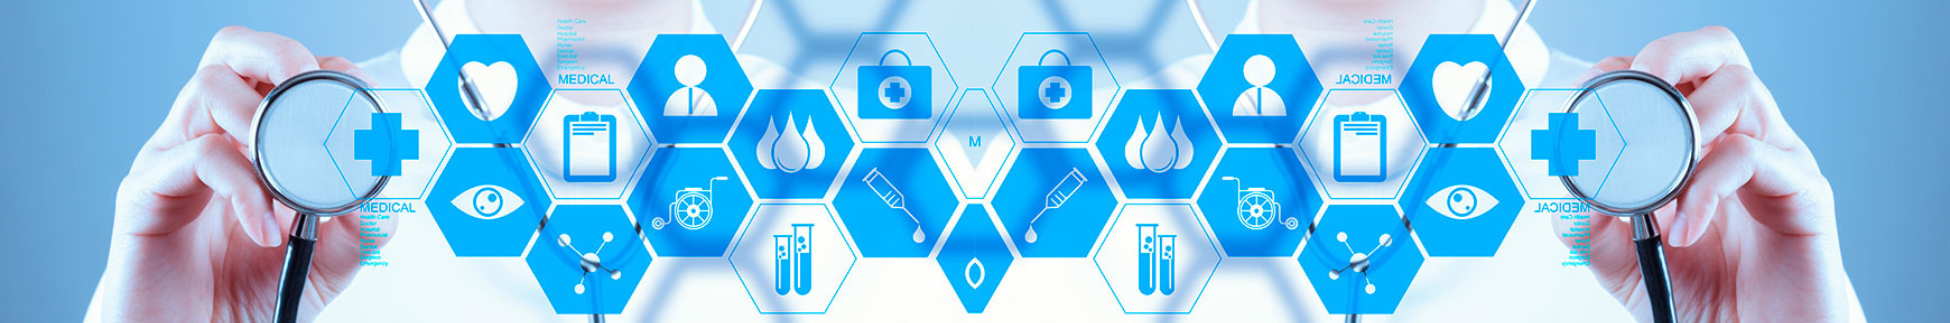
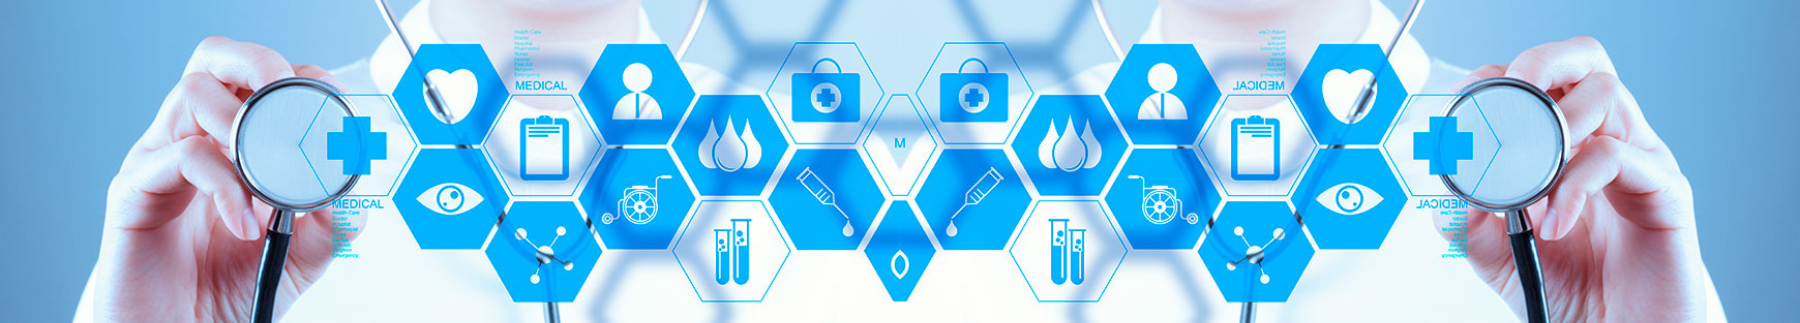
alterações no CSS

diff --git a/HTML/index.html b/HTML/index.html
@@ -21,7 +21,7 @@
                 </div>
             </div>
             <ul class="nav-links">
-                <li><a href="">Inicio</a></li>
+                <li><a href="HTML/index.html">Inicio</a></li>
                 <li><a href="">Benefícios</a></li>
                 <li><a href="">Especialidade</a></li>
                 <li><a href="">Localizações</a></li>
@@ -41,37 +41,38 @@
         <div id="conteiner">
             <div id="container-text">
                 <h3>Saúde pública no Brasil</h3>
-                <p>Lorem ipsum dolor sit amet consectetur, adipisicing elit. Id, necessitatibus ipsa? Error laborum sed dolorum! Numquam, provident quisquam iure esse, itaque quas, explicabo et voluptate autem possimus voluptatem a nemo. Lorem ipsum dolor sit amet, consectetur adipisicing elit. Cum modi adipisci a enim velit, consequatur harum quia magni, quas officiis nihil sunt at eligendi accusantium voluptatem officia, obcaecati voluptas dolorem? Lorem ipsum, dolor sit amet consectetur adipisicing elit. Est, non ipsa. Illum dicta optio quibusdam earum aliquid. Nemo atque iure numquam. Eius adipisci ex ullam blanditiis recusandae et, odio accusantium!
-                Enim delectus, eveniet eos natus nam quidem porro. Eligendi ratione atque ipsa, saepe voluptas laboriosam accusantium minima. Itaque molestias, facere accusantium ad accusamus quae, sint atque perspiciatis illo corporis et?
-                Animi iure alias vero necessitatibus, explicabo, reprehenderit voluptates accusamus ad veniam quos tempora. Hic sapiente voluptatem repudiandae reiciendis quae veniam possimus molestias veritatis perferendis! Iure quia id illum vitae dignissimos.</p>
+                <p>A saúde pública no Brasil, materializada pelo Sistema Único de Saúde (SUS), é uma conquista histórica e um dos maiores sistemas de saúde pública do mundo. O SUS garante o acesso universal e igualitário a ações e serviços de promoção, proteção e recuperação da saúde, sendo um marco na garantia de direitos sociais. No entanto, a subfinanciamento crônico, a desigualdade na distribuição de recursos e a carência de profissionais de saúde em determinadas regiões são desafios que comprometem a qualidade e a equidade do atendimento. Além disso, a pandemia de COVID-19 expôs fragilidades no sistema, como a falta de insumos e a sobrecarga dos profissionais de saúde.</p>
             </div>
             <div id="container-img">
                 <img src="../img/brasil.png" alt="">
             </div>
         </div>
         <div id="conteiner">
-            <div id="container-img">
+            <div id="container-img2">
                 <img src="../img/gdf.png" alt="">
             </div>
             <div id="container-texte">
-                <h3>Saúde pública no Brasil</h3>
-                <p>Lorem ipsum dolor sit amet consectetur, adipisicing elit. Id, necessitatibus ipsa? Error laborum sed dolorum! Numquam, provident quisquam iure esse, itaque quas, explicabo et voluptate autem possimus voluptatem a nemo. Lorem ipsum dolor sit amet, consectetur adipisicing elit. Cum modi adipisci a enim velit, consequatur harum quia magni, quas officiis nihil sunt at eligendi accusantium voluptatem officia, obcaecati voluptas dolorem? Lorem ipsum, dolor sit amet consectetur adipisicing elit. Est, non ipsa. Illum dicta optio quibusdam earum aliquid. Nemo atque iure numquam. Eius adipisci ex ullam blanditiis recusandae et, odio accusantium!
-                Enim delectus, eveniet eos natus nam quidem porro. Eligendi ratione atque ipsa, saepe voluptas laboriosam accusantium minima. Itaque molestias, facere accusantium ad accusamus quae, sint atque perspiciatis illo corporis et?
-                Animi iure alias vero necessitatibus, explicabo, reprehenderit voluptates accusamus ad veniam quos tempora. Hic sapiente voluptatem repudiandae reiciendis quae veniam possimus molestias veritatis perferendis! Iure quia id illum vitae dignissimos.</p>
+                <h3>Saúde pública no DF</h3>
+                <p>A saúde pública no Distrito Federal, apesar de apresentar avanços como uma rede de atenção primária relativamente consolidada e investimentos em tecnologia, enfrenta desafios significativos. A rápida expansão urbana e o crescimento populacional têm sobrecarregado o sistema, resultando em desigualdades entre as regiões administrativas, superlotação de hospitais e unidades de saúde, e falta de profissionais qualificados. A gestão dos serviços de saúde também é um ponto crítico, com questões como falta de planejamento e burocratização impactando a eficiência. Para garantir uma saúde pública de qualidade, é necessário fortalecer a atenção primária, melhorar a gestão, valorizar os profissionais e promover a participação social.</p>
             </div>
            
         </div>
         <div id="conteiner">
             <div id="container-text">
                 <h3>Dinheiro movimento para a Saúde pública</h3>
-                <p>Lorem ipsum dolor sit amet consectetur, adipisicing elit. Id, necessitatibus ipsa? Error laborum sed dolorum! Numquam, provident quisquam iure esse, itaque quas, explicabo et voluptate autem possimus voluptatem a nemo. Lorem ipsum dolor sit amet, consectetur adipisicing elit. Cum modi adipisci a enim velit, consequatur harum quia magni, quas officiis nihil sunt at eligendi accusantium voluptatem officia, obcaecati voluptas dolorem? Lorem ipsum, dolor sit amet consectetur adipisicing elit. Est, non ipsa. Illum dicta optio quibusdam earum aliquid. Nemo atque iure numquam. Eius adipisci ex ullam blanditiis recusandae et, odio accusantium!
-                Enim delectus, eveniet eos natus nam quidem porro. Eligendi ratione atque ipsa, saepe voluptas laboriosam accusantium minima. Itaque molestias, facere accusantium ad accusamus quae, sint atque perspiciatis illo corporis et?
-                Animi iure alias vero necessitatibus, explicabo, reprehenderit voluptates accusamus ad veniam quos tempora. Hic sapiente voluptatem repudiandae reiciendis quae veniam possimus molestias veritatis perferendis! Iure quia id illum vitae dignissimos.</p>
+                <p>O financiamento da saúde pública no Distrito Federal é um tema complexo e desafiador. A principal fonte de recursos é o Sistema Único de Saúde (SUS), que repassa verbas para o governo local. Contudo, o subfinanciamento crônico, a desigualdade na distribuição dos recursos e a falta de planejamento eficaz comprometem a qualidade e a oferta dos serviços de saúde. A demanda crescente por atendimento, somada à complexidade dos casos, exige investimentos cada vez maiores, que nem sempre são acompanhados pelo aumento dos recursos disponíveis. Além disso, a burocracia e a falta de transparência nos processos de gestão financeira dificultam o acompanhamento e o controle dos gastos. Para garantir a sustentabilidade do sistema e a melhoria da qualidade dos serviços, é fundamental aumentar os investimentos, otimizar a gestão dos recursos, fortalecer a participação social e buscar novas fontes de financiamento. </p>
             </div>
-            <div id="container-img2">
+            <div id="container-img3">
                 <img src="../img/dados.png" alt="">
             </div>
         </div>
+        <section id="formulario">
+            <h3>Se increva na nossa Newsletters e receba diversas infomações!</h3>
+            <form id="form-new">
+                <input type="text" id="input-new" placeholder="Seu email">
+                <button type="submit" id="button-new">Se inscreva</button>
+            </form>
+        </section>
     </main>
     <footer>
         <p>&copy; Todos os direitos reservados</p>

diff --git a/CSS/inicio.css b/CSS/inicio.css
@@ -1,34 +1,79 @@
-.img-banner {
-    margin-top: 20px;
-    margin-bottom: 20px;
-    display: flex;
-    justify-content: center;
-    background-color: #44b1fd;
-    margin-right: -50px;
+.img-banner img{
+    margin-top: 20px; 
+    width: 100%;
+    height: auto;
 }
 
 #conteiner{
     display: flex;
     justify-content: center;
     margin: 100px;
+    box-shadow: 0 4px 6px rgba(0, 0, 0, 0.1);
 }
 
 #container-text{
-    
-    margin-left: 25px;
+    text-align: justify;
+    margin-left: 85px;
     margin-right: 100px;
 }
+#container-text p{
+    margin-top: 50px;
+}
 #container-texte{
-    margin-right: 25px;
+    text-align: justify;
+    margin-right: 85px;
     margin-left: 100px;
+}
+#container-texte p{
+    margin-top: 50px;
 }
 #container-img img{
     width: 350px;
     height: auto;
+    margin-bottom: 50px;
 }
-
 #container-img2 img{
+    margin-left: 80px;
     width: 350px;
     height: auto;
+    margin-bottom: 50px;
+}
+#container-img3 img{
+    width: 350px;
+    height: auto;
+    margin-bottom: 50px;
     
+}
+form{
+    align-items: center;
+    justify-content: center;
+    display: flex;
+    
+}
+#formulario{
+    text-align: center;
+    border: 2px solid rgb(37, 104, 187);
+    margin: 0 auto;
+    padding: 40px;
+    width: 50%;
+    margin-bottom: 25px;
+}
+#formulario h3{
+    margin-bottom: 40px;
+}
+
+#input-new{
+    background-color: rgba(168, 168, 168, 0.096);
+    border: 1px solid rgba(0, 0, 0, 0.341);
+    padding: 0.75rem;
+    border-radius: 5px;
+    width: 60%;
+}
+#button-new{
+    background-color: #367ced92;
+    padding: 0.75rem 1.5rem;
+    border: none;
+    border-radius: 5px;
+    cursor: pointer;
+    margin: 15px;
 }
